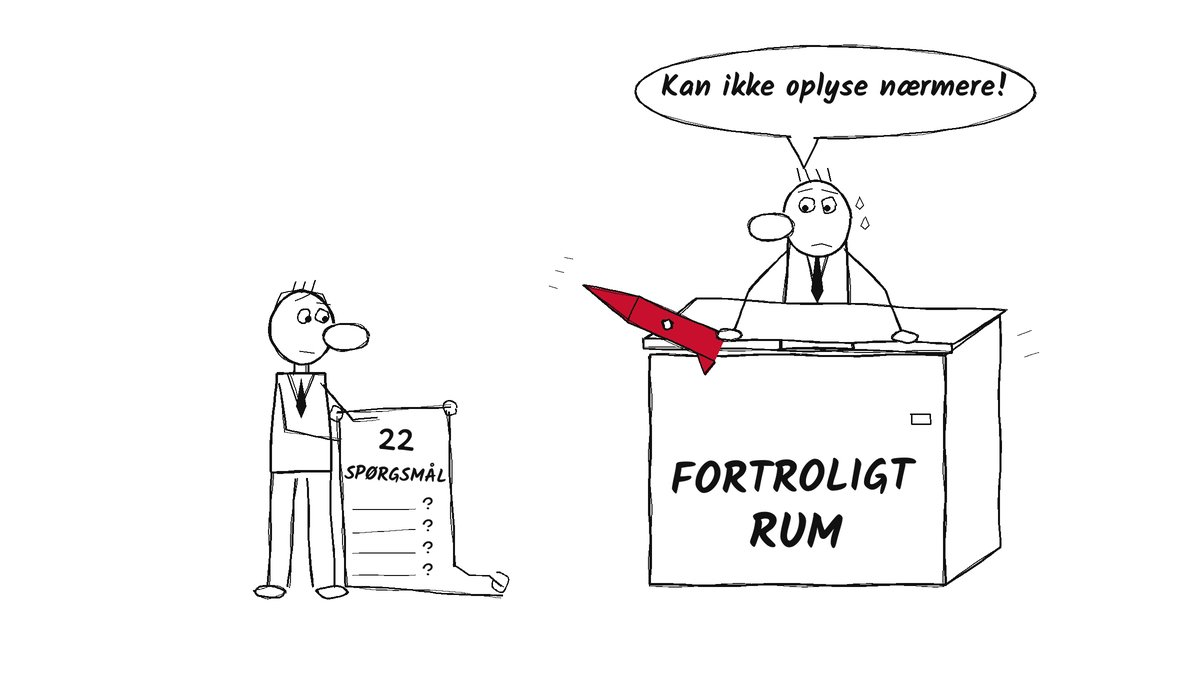
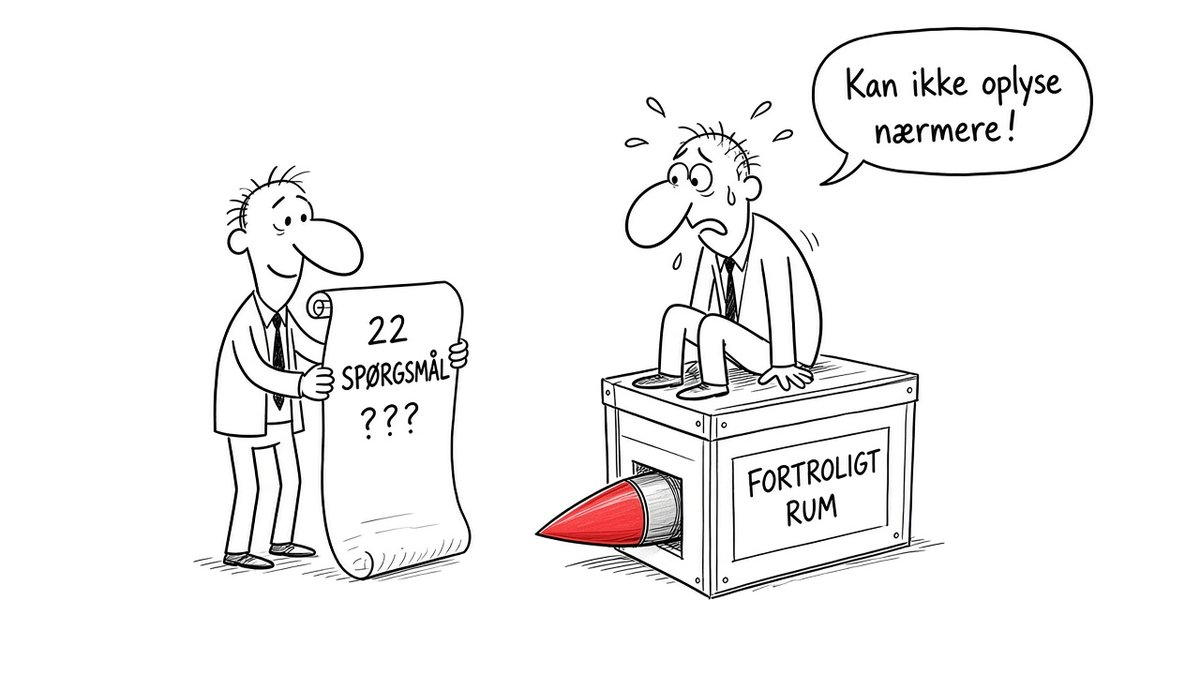
Dagens tegning 18.11: ny genereret tegning i husstil (erstatter programmatisk version)

diff --git a/content/artikler/2026-11-18-dagens-tegning-groenland-fortroligt-rum.md b/content/artikler/2026-11-18-dagens-tegning-groenland-fortroligt-rum.md
@@ -10,7 +10,7 @@ summary: Torsdag stemmer Folketinget om den nye forsvarsaftale mellem Danmark, G
 draft: nej
 relateret: ministersvar-loekke-usa-aftale-groenland-fortroligt-rum
 illustration: 2026-11-18-groenland-fortroligt-rum.jpg
-illustration_alt: Satirisk tegning. En embedsmand med stor næse holder en lang papirrulle med teksten »22 SPØRGSMÅL« og en række spørgsmålstegn. Over for ham presser en svedende embedsmand med stor næse låget ned på en stor kasse mærket »FORTROLIGT RUM«. Under låget stikker en rød raket ud. I en taleboble siger han »Kan ikke oplyse nærmere!«.
+illustration_alt: Satirisk tegning. En embedsmand med stor næse holder en lang papirrulle med teksten »22 SPØRGSMÅL« og tre spørgsmålstegn. Ved siden af sidder en svedende embedsmand med stor næse på en trækasse mærket »FORTROLIGT RUM«. Ud af kassen stikker spidsen af en rød raket. I en taleboble siger han »Kan ikke oplyse nærmere!«.
 illustration_credit: Tegning: Europaposten (AI-genereret satire)
 ---
 
